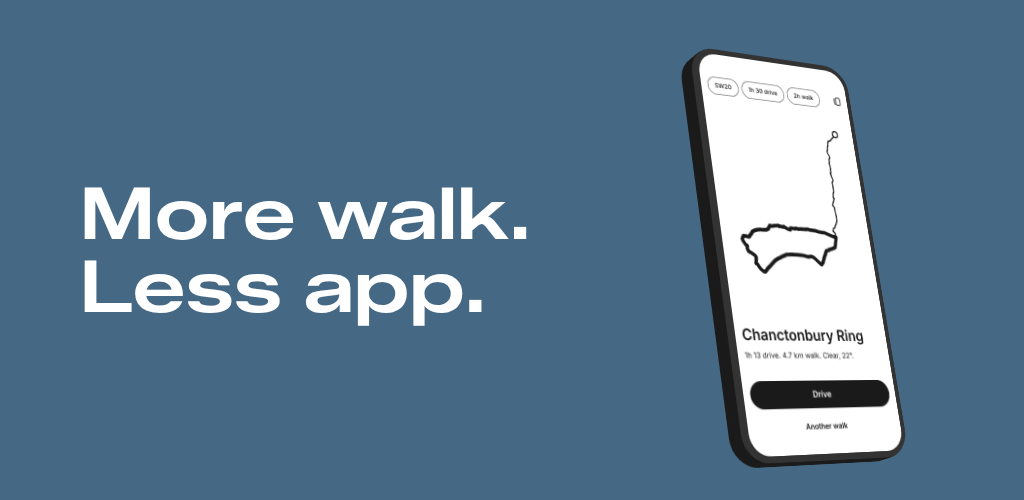
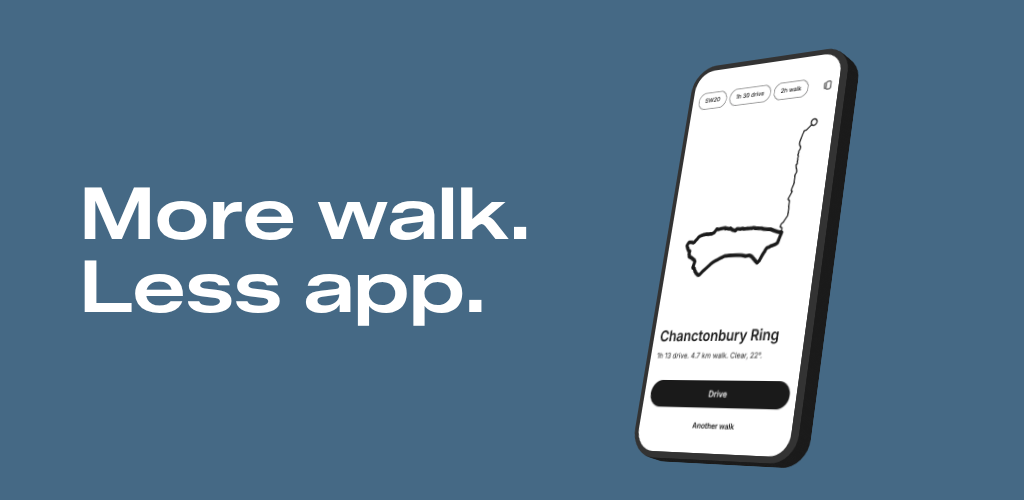
Play listing: screenshot 1 on blue, 4 on orange (day card on its own colour); feature graphic phone turned inwards, towards the headline
Claude-Session: https://claude.ai/code/session_01P1qx1PfAAUM1n3ZEA26V2Y

Changed region(s): [[0.5938, 0.09, 0.9062, 0.93]]

diff --git a/android-release/play-listing/source/shot.html b/android-release/play-listing/source/shot.html
@@ -12,8 +12,8 @@ html,body{margin:0;background:#888;color:#FFFFFF;font-family:Z}
 .ph img{display:block;width:100%;height:100%;border-radius:calc(var(--pw) * .1133);object-fit:cover;object-position:top}
 .fg{position:relative;width:1024px;height:500px;overflow:hidden;display:flex;align-items:center}
 .fg h2{margin:0 0 0 80px;font:600 72px/1.02 Z;letter-spacing:.01em;white-space:pre-line}
-.fg .stage{position:absolute;left:800px;top:50%;perspective:1400px;transform:translate(-50%,-50%)}
-.p3{--pw:196px;--d:23px;position:relative;width:var(--pw);aspect-ratio:390/844;border-radius:calc(var(--pw) * .1467);transform-style:preserve-3d;transform:rotateX(22deg) rotateY(34deg) rotateZ(-10deg)}
+.fg .stage{position:absolute;left:740px;top:50%;perspective:1400px;transform:translate(-50%,-50%)}
+.p3{--pw:196px;--d:23px;position:relative;width:var(--pw);aspect-ratio:390/844;border-radius:calc(var(--pw) * .1467);transform-style:preserve-3d;transform:rotateX(22deg) rotateY(-34deg) rotateZ(10deg)}
 .p3 i{position:absolute;inset:0;border-radius:inherit;background:#1A1A1A;transform:translateZ(calc(var(--k) * var(--d) / -12))}
 .p3 i.rim{background:#333333}
 .p3 .scr{position:absolute;inset:calc(var(--pw) * .0333);border-radius:calc(var(--pw) * .1133);overflow:hidden;transform:translateZ(.5px)}
